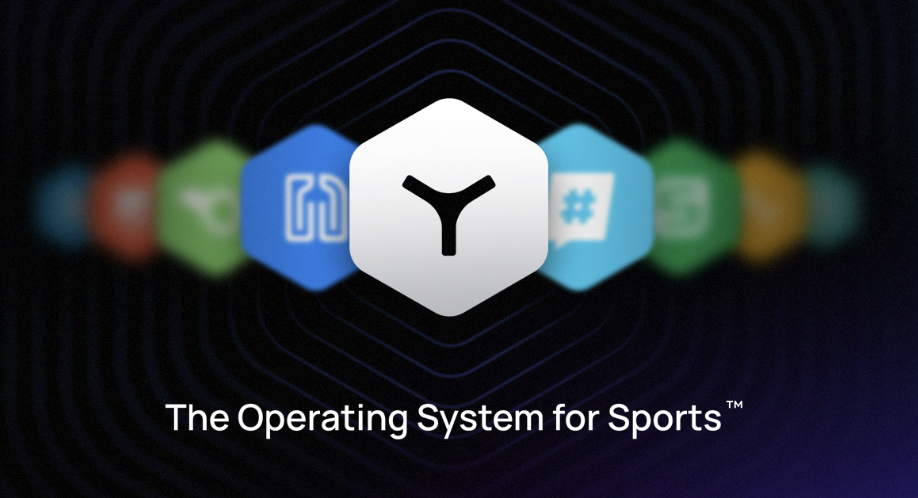
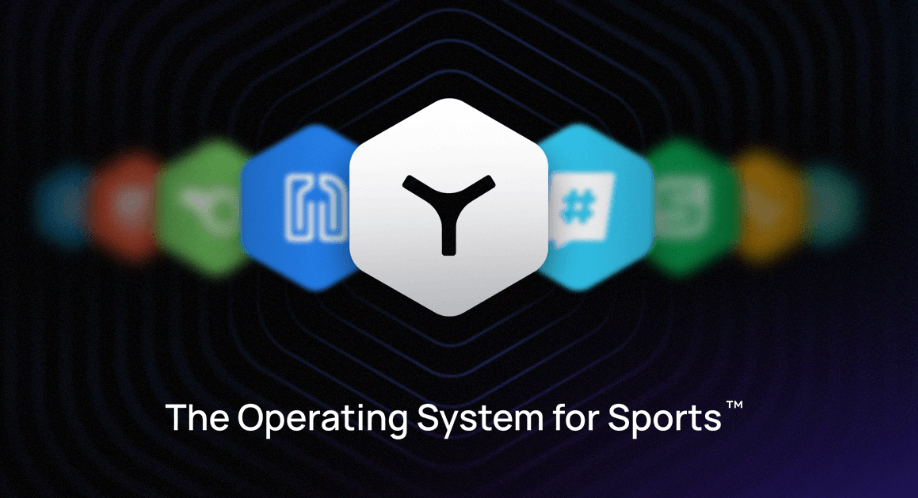
opt: optimize images add more screenshots

Changed region(s): [[0.5795, 0.241, 0.8235, 0.6024], [0.244, 0.241, 0.3965, 0.5723]]

diff --git a/index.html b/index.html
@@ -242,9 +242,10 @@
         <div class="item tooltip">
           <img src="img/tw-guest-approvals.png" style="margin-top: 1%" />
           <span class="tooltiptext">
-            Page for approving guest to receive tickets for sport events. Here
-            you can see older tw app design where we using antD components with
-            emotion CSS in JS!
+            Page for approving guest to receive tickets for sport events, also
+            participated in making most of the Compliance module. Here you can
+            see older tw app design where we using antD components with emotion
+            CSS in JS!
           </span>
         </div>
         <!-- The third slide -->
@@ -259,6 +260,21 @@
             for rest of the components
           </span>
         </div>
+        <div class="item tooltip">
+          <img src="img/team-showcase.png" style="margin-top: 2%" />
+          <span class="tooltiptext">
+            Demo application that I wrote in my free time to try new NextJS app
+            router
+          </span>
+        </div>
+        <div class="item tooltip">
+          <img src="img/electricity-generator.png" style="margin-top: 2%" />
+          <span class="tooltiptext">
+            Another demo application where I'm playing with different libraries
+            like Visx charts, Zod validations, Redux toolkit and others.
+          </span>
+        </div>
+
         <!-- Arrow buttons -->
         <a class="previous" onclick="previousSlide()">&#10094;</a>
         <a class="next" onclick="nextSlide()">&#10095;</a>

diff --git a/README.md b/README.md
@@ -1,0 +1,3 @@
+## My personal website
+
+During my university studies, I created a simple website using HTML, CSS, and a touch of vanillaJS. Since then, I have utilized it as an extension of my resume. The website showcases my professional experience and features screenshots of some of my previous work.
